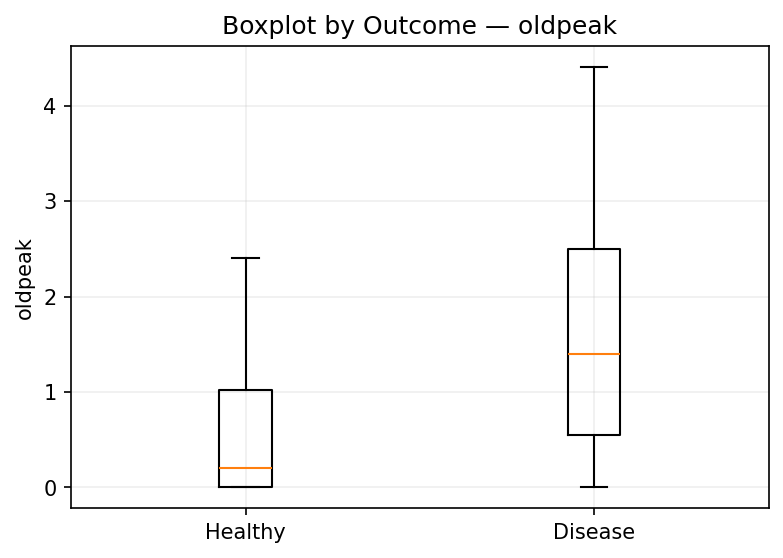
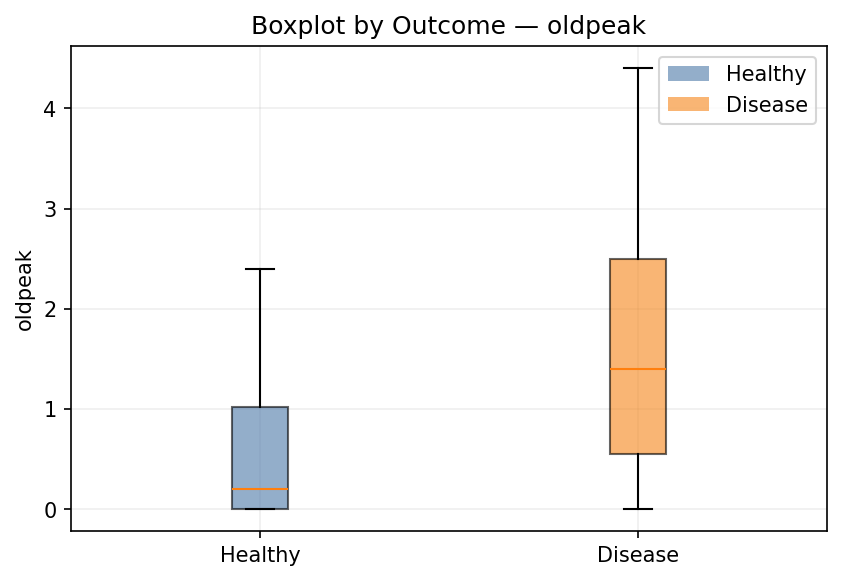
Graphs updates

Changed region(s): [[0.0, 0.0305, 1.0, 0.9749], [0.705, 0.4265, 0.7969, 0.7921]]

diff --git a/app/plots.py b/app/plots.py
@@ -5,7 +5,12 @@ import pandas as pd
 import matplotlib
 matplotlib.use("Agg")  # backend sigur pentru server
 import matplotlib.pyplot as plt
+from matplotlib.patches import Patch
 from .figutils import finalize_axes
+
+# --- stil/culori consistente pe tot proiectul ---
+COLOR_HEALTHY = "#4C78A8"
+COLOR_DISEASE = "#F58518"
 
 # --- helpers interne ---
 def _require_cols(df: pd.DataFrame, cols: list[str]) -> None:
@@ -17,68 +22,198 @@ def _require_two_groups(x0: np.ndarray, x1: np.ndarray, col: str) -> None:
     if len(x0) == 0 or len(x1) == 0:
         raise ValueError(f"Not enough data in both groups for column '{col}'.")
 
+def _weights_percent(x: np.ndarray) -> np.ndarray:
+    """Greutăți pentru ca histogramele să fie în % din grup."""
+    if len(x) == 0:
+        return np.array([])
+    return np.ones_like(x, dtype=float) * (100.0 / len(x))
+
+def _draw_thresholds(ax: plt.Axes, thresholds: list[float] | tuple[float, ...] | None, ymax_pad: float = 0.05):
+    """Linii verticale de prag + etichete în partea de sus a plotului."""
+    if not thresholds:
+        return
+    ylim = ax.get_ylim()
+    y_top = ylim[1] * (1 - ymax_pad)
+    for t in thresholds:
+        ax.axvline(float(t), linestyle="--", linewidth=1)
+        ax.text(float(t), y_top, str(t), rotation=90, va="top", ha="right", fontsize=8)
+
 # --- Phase 3: CORE PLOTS ---
 
-def plot_num_distribution(df: pd.DataFrame):
+def plot_num_distribution(df: pd.DataFrame, normalize: bool = True, min_n_warn: int = 5):
     """
-    Bar chart pentru distribuția lui `num` (0..4).
-    Returnează (fig, ax).
+    Distribuția claselor `num` (0..4).
+    - normalize=True: axe Y în procente (și etichetăm n și % pe bare)
     """
     _require_cols(df, ["num"])
     counts = df["num"].value_counts().sort_index()
     labels = [str(i) for i in counts.index.tolist()]
+    total = int(counts.sum())
+    perc = counts / total * 100.0
 
-    fig, ax = plt.subplots(figsize=(6, 4))
-    bars = ax.bar(labels, counts.values)
+    height = perc.values if normalize else counts.values
 
-    # etichete cu valorile pe bare
-    for b, v in zip(bars, counts.values):
-        ax.text(b.get_x() + b.get_width()/2, b.get_height(), str(int(v)),
+    fig, ax = plt.subplots(figsize=(6.5, 4.2))
+    bars = ax.bar(labels, height)
+
+    # etichete pe bare: n (p%)
+    for lab, h, n, p, b in zip(labels, height, counts.values, perc.values, bars):
+        txt = f"n={n} ({p:.1f}%)" if normalize else f"n={n}"
+        ax.text(b.get_x() + b.get_width() / 2, b.get_height(), txt,
                 ha="center", va="bottom", fontsize=9)
 
-    finalize_axes(
-        ax,
-        title="Class Distribution (num)",
-        xlabel="num (0=healthy, 1–4=severity)",
-        ylabel="Count",
-    )
+    title = f"Class Distribution (num) — N={total}"
+    ylabel = "Percent (%)" if normalize else "Count"
+    finalize_axes(ax, title=title, xlabel="num (0=healthy, 1–4=severity)", ylabel=ylabel)
+
+    # notă discretă dacă unele stadii au N mic
+    small = [lab for lab, n in zip(labels, counts.values) if n < min_n_warn and lab != "0"]
+    if small:
+        ax.text(0.98, 0.02, f"Caution: low N in stages {', '.join(small)}",
+                transform=ax.transAxes, ha="right", va="bottom", fontsize=8, alpha=0.75)
+
     return fig, ax
 
 
-def plot_hist_overlay(df: pd.DataFrame, col: str):
+def plot_hist_overlay(
+    df: pd.DataFrame,
+    col: str,
+    normalize: str = "percent",  # "percent" sau "count"
+    thresholds: list[float] | tuple[float, ...] | None = None,
+    show_medians: bool = True,
+):
     """
     Histogramă suprapusă pentru `col`, separat pe healthy vs disease (has_disease).
-    Returnează (fig, ax).
+    - normalize="percent": Y în procente din fiecare grup (comparabil ca formă)
+      (folosim weights pentru a evita density=True)
+    - thresholds: valori verticale marcate (ex. chol 200/240; trestbps 130/140; oldpeak 1/2)
     """
     _require_cols(df, [col, "has_disease"])
     x0 = df.loc[df["has_disease"] == 0, col].dropna().to_numpy()
     x1 = df.loc[df["has_disease"] == 1, col].dropna().to_numpy()
     _require_two_groups(x0, x1, col)
 
-    # aceleași bin-uri pentru ambele grupuri
     allx = np.concatenate([x0, x1])
     bins = np.histogram_bin_edges(allx, bins="auto")
 
-    fig, ax = plt.subplots(figsize=(6, 4))
-    ax.hist(x0, bins=bins, alpha=0.6, label="Healthy")
-    ax.hist(x1, bins=bins, alpha=0.6, label="Has disease")
-    ax.legend()
+    fig, ax = plt.subplots(figsize=(6.5, 4.2))
+    if normalize == "percent":
+        w0 = _weights_percent(x0)
+        w1 = _weights_percent(x1)
+        ax.hist(x0, bins=bins, alpha=0.6, label=f"Healthy (n={len(x0)})", weights=w0, color=COLOR_HEALTHY)
+        ax.hist(x1, bins=bins, alpha=0.6, label=f"Disease (n={len(x1)})", weights=w1, color=COLOR_DISEASE)
+        ylabel = "Percent of group (%)"
+    else:
+        ax.hist(x0, bins=bins, alpha=0.6, label=f"Healthy (n={len(x0)})", color=COLOR_HEALTHY)
+        ax.hist(x1, bins=bins, alpha=0.6, label=f"Disease (n={len(x1)})", color=COLOR_DISEASE)
+        ylabel = "Count"
 
-    finalize_axes(ax, title=f"Histogram Overlay — {col}", xlabel=col, ylabel="Frequency")
+    # mediane
+    if show_medians:
+        m0 = float(np.median(x0))
+        m1 = float(np.median(x1))
+        ax.axvline(m0, color=COLOR_HEALTHY, linestyle="--", linewidth=1)
+        ax.axvline(m1, color=COLOR_DISEASE, linestyle="--", linewidth=1)
+        ax.text(m0, ax.get_ylim()[1]*0.95, f"med={m0:.1f}", color=COLOR_HEALTHY, fontsize=8, ha="right", va="top")
+        ax.text(m1, ax.get_ylim()[1]*0.95, f"med={m1:.1f}", color=COLOR_DISEASE, fontsize=8, ha="right", va="top")
+
+    # praguri
+    _draw_thresholds(ax, thresholds)
+
+    ax.legend()
+    finalize_axes(ax, title=f"Histogram Overlay — {col}", xlabel=col, ylabel=ylabel)
     return fig, ax
 
 
-def plot_box_by_outcome(df: pd.DataFrame, col: str):
+def plot_box_by_outcome(
+    df: pd.DataFrame,
+    col: str,
+    stratify_by: str | None = None,  # ex: "age_bin" pentru perechi Healthy/Disease în fiecare bin
+):
     """
-    Boxplot pentru `col`, separat pe healthy vs disease (has_disease).
-    Returnează (fig, ax).
+    Boxplot pentru `col`:
+      - simplu: Healthy vs Disease
+      - stratificat: două boxuri per nivel al lui `stratify_by` (ex. age_bin)
     """
     _require_cols(df, [col, "has_disease"])
-    g0 = df.loc[df["has_disease"] == 0, col].dropna().to_numpy()
-    g1 = df.loc[df["has_disease"] == 1, col].dropna().to_numpy()
-    _require_two_groups(g0, g1, col)
 
-    fig, ax = plt.subplots(figsize=(6, 4))
-    ax.boxplot([g0, g1], labels=["Healthy", "Disease"], showfliers=False)
-    finalize_axes(ax, title=f"Boxplot by Outcome — {col}", ylabel=col)
+    # --- varianta simplă (două boxuri) ---
+    if stratify_by is None:
+        g0 = df.loc[df["has_disease"] == 0, col].dropna().to_numpy()
+        g1 = df.loc[df["has_disease"] == 1, col].dropna().to_numpy()
+        _require_two_groups(g0, g1, col)
+
+        fig, ax = plt.subplots(figsize=(6.5, 4.2))
+        bp = ax.boxplot([g0, g1], labels=["Healthy", "Disease"], showfliers=False, patch_artist=True)
+        # culori
+        for patch, c in zip(bp["boxes"], [COLOR_HEALTHY, COLOR_DISEASE]):
+            patch.set_facecolor(c)
+            patch.set_alpha(0.6)
+        legend_handles = [Patch(facecolor=COLOR_HEALTHY, alpha=0.6, label="Healthy"),
+                          Patch(facecolor=COLOR_DISEASE, alpha=0.6, label="Disease")]
+        ax.legend(handles=legend_handles, loc="best")
+        finalize_axes(ax, title=f"Boxplot by Outcome — {col}", ylabel=col)
+        return fig, ax
+
+    # --- varianta stratificată ---
+    if stratify_by not in df.columns:
+        raise KeyError(f"Column '{stratify_by}' not found in DataFrame.")
+
+    # Ordinea nivelurilor (dacă e categorică, respectăm ordinea)
+    if pd.api.types.is_categorical_dtype(df[stratify_by]):
+        levels = [lvl for lvl in df[stratify_by].cat.categories]
+    else:
+        levels = sorted(df[stratify_by].dropna().unique().tolist())
+
+    data = []
+    positions = []
+    pos = 0
+    width = 0.18  # distanța laterală între healthy/disease în același nivel
+    xticks = []
+    xticklabels = []
+    skipped_levels = []
+
+    for lvl in levels:
+        g0 = df.loc[(df["has_disease"] == 0) & (df[stratify_by] == lvl), col].dropna().to_numpy()
+        g1 = df.loc[(df["has_disease"] == 1) & (df[stratify_by] == lvl), col].dropna().to_numpy()
+
+        # dacă ambele sunt goale, sărim total nivelul
+        if len(g0) == 0 and len(g1) == 0:
+            skipped_levels.append(str(lvl))
+            continue
+
+        # adăugăm (poate lipsi unul din ele; afișăm ce există)
+        if len(g0) > 0:
+            data.append(g0); positions.append(pos - width)
+        if len(g1) > 0:
+            data.append(g1); positions.append(pos + width)
+
+        xticks.append(pos)
+        xticklabels.append(str(lvl))
+        pos += 1
+
+    if not data:
+        raise ValueError(f"No data available to plot '{col}' stratified by '{stratify_by}'.")
+
+    fig, ax = plt.subplots(figsize=(7.5, 4.4))
+    bp = ax.boxplot(data, positions=positions, showfliers=False, patch_artist=True)
+
+    # colorăm alternativ: healthy/disease repetitiv
+    for i, patch in enumerate(bp["boxes"]):
+        c = COLOR_HEALTHY if (i % 2 == 0) else COLOR_DISEASE
+        patch.set_facecolor(c)
+        patch.set_alpha(0.6)
+
+    ax.set_xticks(xticks)
+    ax.set_xticklabels(xticklabels)
+    legend_handles = [Patch(facecolor=COLOR_HEALTHY, alpha=0.6, label="Healthy"),
+                      Patch(facecolor=COLOR_DISEASE, alpha=0.6, label="Disease")]
+    ax.legend(handles=legend_handles, loc="best")
+
+    finalize_axes(ax, title=f"Boxplot by Outcome — {col} (stratified by {stratify_by})", ylabel=col)
+
+    if skipped_levels:
+        ax.text(0.98, 0.02, f"Skipped empty: {', '.join(skipped_levels)}",
+                transform=ax.transAxes, ha="right", va="bottom", fontsize=8, alpha=0.75)
+
     return fig, ax
